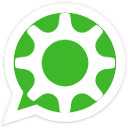
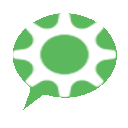
atualizado: versao 0.1.6

diff --git a/README.md b/README.md
@@ -1,5 +1,5 @@
 # Wpp web Customizador
-Personaliza o Whatsapp Web.
+Personaliza o Whatsapp™ Web.
 
 ##Funções:
 - Modifica o fundo (background) do chat
@@ -9,8 +9,9 @@ Envie a imagem para alguém pela interface web, clique na imagem, copie o link d
 Este procedimento é necessário, pois dia 24/12/2014 o Whatsapp Web passou a bloquear via CSP conteúdos de sites de terceiros, sendo aceito apenas dos servidores nos domínios whatsapp.net e whatsapp.com.
 
 ##Change log:
-0.1.5
+0.1.6
 - Adicionado aviso de url incorreta
+- Modificado icone
 
 0.1.4
 - Correções de bugs

diff --git a/README_en.md b/README_en.md
@@ -1,5 +1,5 @@
 # Wpp web Customizer
-Customize the Whatsapp Web.
+Customize the Whatsapp™ Web.
 
 ##Features:
 - Change the chat background
@@ -9,8 +9,9 @@ Send to image to someone friend in Whatsapp Web, click in image, copy link addre
 Note: This is necessary because Whatsapp Web blocks with CSP, then only accept images from Whatsapp.com and Whatsapp.net
 
 ##Change log:
-0.1.5
+0.1.6
 - Add message of incorrect url
+- Change icon
 
 0.1.4
 - Bug fixes
